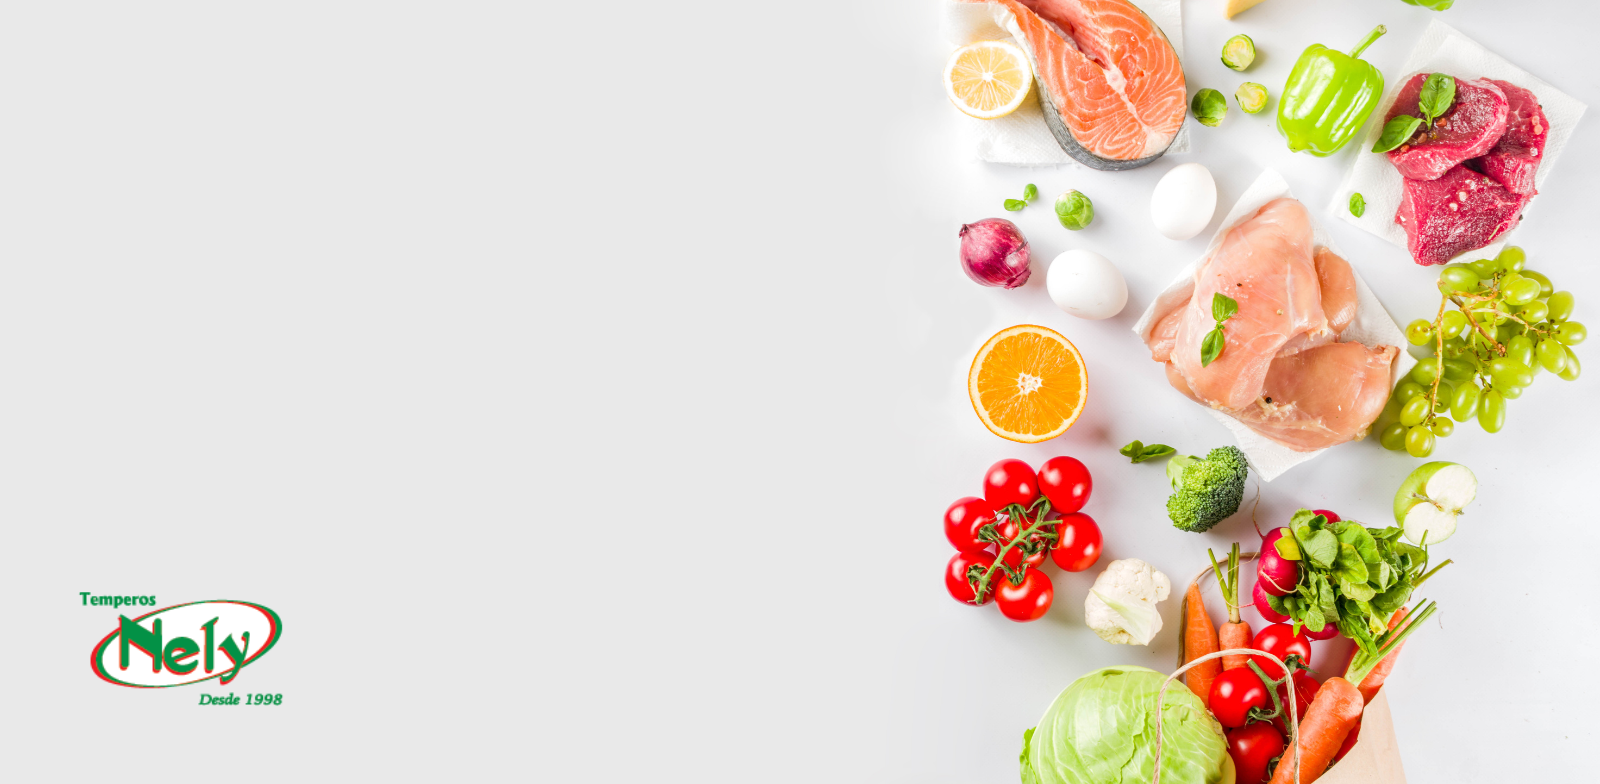
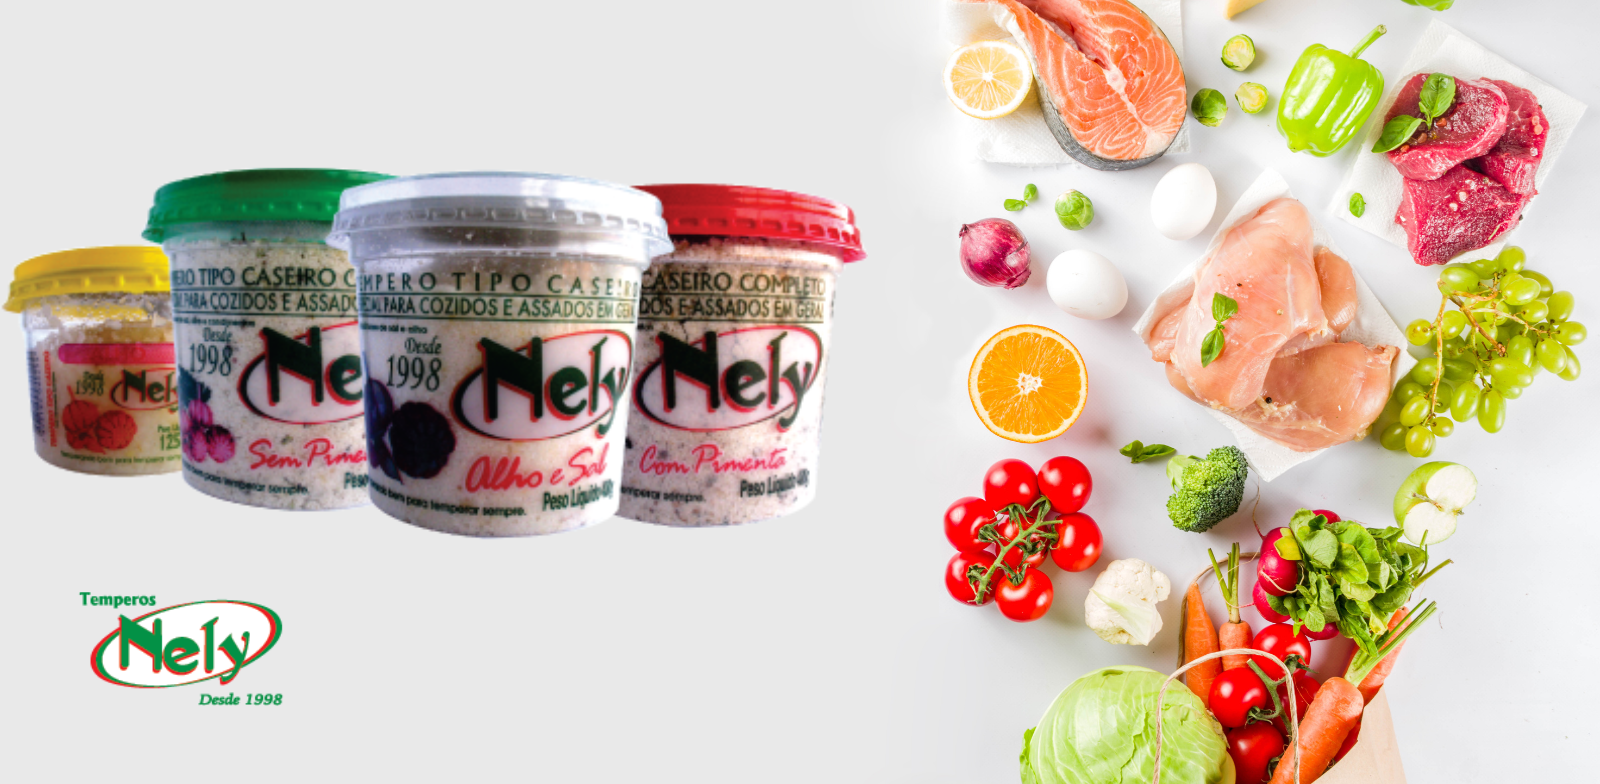
vamos de berco

Changed region(s): [[0.0, 0.2143, 0.5625, 0.7041]]

diff --git a/index.html b/index.html
@@ -20,7 +20,7 @@
 
     </head>
     <link rel="stylesheet" href="https://maxcdn.bootstrapcdn.com/font-awesome/4.5.0/css/font-awesome.min.css">
-    <a href="https://api.whatsapp.com/" style="position:fixed;width:60px;height:60px;bottom:40px;right:40px;background-color:#25d366;color:#FFF;border-radius:50px;text-align:center;font-size:30px;box-shadow: 1px 1px 2px #888;
+    <a href="https://api.whatsapp.com/send?phone=5541998659007&text=Ol%C3%A1%2C%20vi%20seu%20site" style="position:fixed;width:60px;height:60px;bottom:40px;right:40px;background-color:#25d366;color:#FFF;border-radius:50px;text-align:center;font-size:30px;box-shadow: 1px 1px 2px #888;
   z-index:1000;" target="_blank">
     <i style="margin-top:16px" class="fa fa-whatsapp"></i>
 </a>
@@ -41,13 +41,10 @@
                     <div class="col-lg-3 col-12 ms-auto d-lg-block d-none">
                         <ul class="social-icon">
                             <li class="social-icon-item">
-                                <a href="https://www.youtube.com" target="_blank" class="social-icon-link bi-youtube"></a>
+                                <a href="https://www.instagram.com/temperosnely/" target="_blank" class="social-icon-link bi-instagram"></a>
                             </li>
                             <li class="social-icon-item">
-                                <a href="https://www.instagram.com" target="_blank" class="social-icon-link bi-instagram"></a>
-                            </li>
-                            <li class="social-icon-item">
-                                <a href="https://www.instagram.com" target="_blank" class="social-icon-link bi-whatsapp"></a>
+                                <a href="https://web.facebook.com/temperosnelyctba" target="_blank" class="social-icon-link bi-facebook"></a>
                             </li>
                     </div>
 
@@ -119,7 +116,7 @@
                             <div id="hero-slide" class="carousel carousel-fade slide" data-bs-ride="carousel">
                                 <div class="carousel-inner">
                                     <div class="carousel-item active">
-                                        <img src="images/6.png" class="carousel-image img-fluid" alt="...">
+                                        <img src="images/bg5.png" class="carousel-image img-fluid" alt="...">
                                         
                                         <div class="carousel-caption d-flex flex-column justify-content-end">
                                             <!-- <h1>Temperos Nely</h1>
@@ -475,16 +472,16 @@
                         <div class="col-lg-6 col-md-5 col-12 d-flex justify-content-center align-items-center mx-auto">
                             <ul class="social-icon">
                                 <li class="social-icon-item">
-                                    <a href="#" target="_blank" class="social-icon-link bi-whatsapp"></a>
+                                    <a href="https://api.whatsapp.com/send?phone=5541998659007&text=Ol%C3%A1%2C%20vi%20seu%20site" target="_blank" class="social-icon-link bi-whatsapp"></a>
                                 </li>
 
                                 <li class="social-icon-item">
-                                    <a href="#" target="_blank" class="social-icon-link bi-instagram"></a>
+                                    <a href="https://www.instagram.com/temperosnely/" target="_blank" class="social-icon-link bi-instagram"></a>
+                                </li>
+                                <li class="social-icon-item">
+                                    <a href="https://web.facebook.com/temperosnelyctba" target="_blank" class="social-icon-link bi-facebook"></a>
                                 </li>
 
-                                <li class="social-icon-item">
-                                    <a href="#" target="_blank" class="social-icon-link bi-youtube"></a>
-                                </li>
                             </ul>
                         </div>
                         

diff --git a/trad.html b/trad.html
@@ -40,15 +40,13 @@
                     <div class="col-lg-3 col-12 ms-auto d-lg-block d-none">
                         <ul class="social-icon">
                             <li class="social-icon-item">
-                                <a href="https://www.youtube.com" target="_blank" class="social-icon-link bi-youtube"></a>
+                                <a href="https://www.instagram.com/temperosnely/" target="_blank" class="social-icon-link bi-instagram"></a>
                             </li>
                             <li class="social-icon-item">
-                                <a href="https://www.instagram.com" target="_blank" class="social-icon-link bi-instagram"></a>
-                            </li>
-                            <li class="social-icon-item">
-                                <a href="https://www.instagram.com" target="_blank" class="social-icon-link bi-whatsapp"></a>
+                                <a href="https://web.facebook.com/temperosnelyctba" target="_blank" class="social-icon-link bi-facebook"></a>
                             </li>
                     </div>
+
 
                 </div>
             </div>
@@ -243,20 +241,19 @@
                                 <p class="copyright-text mb-0">Copyright © 2022 <a href="#">Temperos Nely.</a> 
                                 Design: <a href="https://costasoftwaresolutions.com" target="_blank">Costa Software Solutions</a></p>
                             </div>
-                            
                             <div class="col-lg-6 col-md-5 col-12 d-flex justify-content-center align-items-center mx-auto">
                                 <ul class="social-icon">
                                     <li class="social-icon-item">
-                                        <a href="#" target="_blank" class="social-icon-link bi-whatsapp"></a>
+                                        <a href="https://api.whatsapp.com/send?phone=5541998659007&text=Ol%C3%A1%2C%20vi%20seu%20site" target="_blank" class="social-icon-link bi-whatsapp"></a>
                                     </li>
     
                                     <li class="social-icon-item">
-                                        <a href="#" target="_blank" class="social-icon-link bi-instagram"></a>
+                                        <a href="https://www.instagram.com/temperosnely/" target="_blank" class="social-icon-link bi-instagram"></a>
+                                    </li>
+                                    <li class="social-icon-item">
+                                        <a href="https://web.facebook.com/temperosnelyctba" target="_blank" class="social-icon-link bi-facebook"></a>
                                     </li>
     
-                                    <li class="social-icon-item">
-                                        <a href="#" target="_blank" class="social-icon-link bi-youtube"></a>
-                                    </li>
                                 </ul>
                             </div>
                             

diff --git a/conserv.html b/conserv.html
@@ -40,15 +40,13 @@
                     <div class="col-lg-3 col-12 ms-auto d-lg-block d-none">
                         <ul class="social-icon">
                             <li class="social-icon-item">
-                                <a href="https://www.youtube.com" target="_blank" class="social-icon-link bi-youtube"></a>
+                                <a href="https://www.instagram.com/temperosnely/" target="_blank" class="social-icon-link bi-instagram"></a>
                             </li>
                             <li class="social-icon-item">
-                                <a href="https://www.instagram.com" target="_blank" class="social-icon-link bi-instagram"></a>
-                            </li>
-                            <li class="social-icon-item">
-                                <a href="https://www.instagram.com" target="_blank" class="social-icon-link bi-whatsapp"></a>
+                                <a href="https://web.facebook.com/temperosnelyctba" target="_blank" class="social-icon-link bi-facebook"></a>
                             </li>
                     </div>
+
 
                 </div>
             </div>
@@ -187,16 +185,16 @@
                             <div class="col-lg-6 col-md-5 col-12 d-flex justify-content-center align-items-center mx-auto">
                                 <ul class="social-icon">
                                     <li class="social-icon-item">
-                                        <a href="#" target="_blank" class="social-icon-link bi-whatsapp"></a>
+                                        <a href="https://api.whatsapp.com/send?phone=5541998659007&text=Ol%C3%A1%2C%20vi%20seu%20site" target="_blank" class="social-icon-link bi-whatsapp"></a>
                                     </li>
     
                                     <li class="social-icon-item">
-                                        <a href="#" target="_blank" class="social-icon-link bi-instagram"></a>
+                                        <a href="https://www.instagram.com/temperosnely/" target="_blank" class="social-icon-link bi-instagram"></a>
+                                    </li>
+                                    <li class="social-icon-item">
+                                        <a href="https://web.facebook.com/temperosnelyctba" target="_blank" class="social-icon-link bi-facebook"></a>
                                     </li>
     
-                                    <li class="social-icon-item">
-                                        <a href="#" target="_blank" class="social-icon-link bi-youtube"></a>
-                                    </li>
                                 </ul>
                             </div>
                             

diff --git a/sal.html b/sal.html
@@ -40,15 +40,13 @@
                     <div class="col-lg-3 col-12 ms-auto d-lg-block d-none">
                         <ul class="social-icon">
                             <li class="social-icon-item">
-                                <a href="https://www.youtube.com" target="_blank" class="social-icon-link bi-youtube"></a>
+                                <a href="https://www.instagram.com/temperosnely/" target="_blank" class="social-icon-link bi-instagram"></a>
                             </li>
                             <li class="social-icon-item">
-                                <a href="https://www.instagram.com" target="_blank" class="social-icon-link bi-instagram"></a>
-                            </li>
-                            <li class="social-icon-item">
-                                <a href="https://www.instagram.com" target="_blank" class="social-icon-link bi-whatsapp"></a>
+                                <a href="https://web.facebook.com/temperosnelyctba" target="_blank" class="social-icon-link bi-facebook"></a>
                             </li>
                     </div>
+
 
                 </div>
             </div>
@@ -299,16 +297,16 @@
                             <div class="col-lg-6 col-md-5 col-12 d-flex justify-content-center align-items-center mx-auto">
                                 <ul class="social-icon">
                                     <li class="social-icon-item">
-                                        <a href="#" target="_blank" class="social-icon-link bi-whatsapp"></a>
+                                        <a href="https://api.whatsapp.com/send?phone=5541998659007&text=Ol%C3%A1%2C%20vi%20seu%20site" target="_blank" class="social-icon-link bi-whatsapp"></a>
                                     </li>
     
                                     <li class="social-icon-item">
-                                        <a href="#" target="_blank" class="social-icon-link bi-instagram"></a>
+                                        <a href="https://www.instagram.com/temperosnely/" target="_blank" class="social-icon-link bi-instagram"></a>
+                                    </li>
+                                    <li class="social-icon-item">
+                                        <a href="https://web.facebook.com/temperosnelyctba" target="_blank" class="social-icon-link bi-facebook"></a>
                                     </li>
     
-                                    <li class="social-icon-item">
-                                        <a href="#" target="_blank" class="social-icon-link bi-youtube"></a>
-                                    </li>
                                 </ul>
                             </div>
                             

diff --git a/produtos.html b/produtos.html
@@ -40,13 +40,10 @@
                     <div class="col-lg-3 col-12 ms-auto d-lg-block d-none">
                         <ul class="social-icon">
                             <li class="social-icon-item">
-                                <a href="https://www.youtube.com" target="_blank" class="social-icon-link bi-youtube"></a>
+                                <a href="https://www.instagram.com/temperosnely/" target="_blank" class="social-icon-link bi-instagram"></a>
                             </li>
                             <li class="social-icon-item">
-                                <a href="https://www.instagram.com" target="_blank" class="social-icon-link bi-instagram"></a>
-                            </li>
-                            <li class="social-icon-item">
-                                <a href="https://www.instagram.com" target="_blank" class="social-icon-link bi-whatsapp"></a>
+                                <a href="https://web.facebook.com/temperosnelyctba" target="_blank" class="social-icon-link bi-facebook"></a>
                             </li>
                     </div>
 
@@ -406,16 +403,16 @@
                             <div class="col-lg-6 col-md-5 col-12 d-flex justify-content-center align-items-center mx-auto">
                                 <ul class="social-icon">
                                     <li class="social-icon-item">
-                                        <a href="#" target="_blank" class="social-icon-link bi-whatsapp"></a>
+                                        <a href="https://api.whatsapp.com/send?phone=5541998659007&text=Ol%C3%A1%2C%20vi%20seu%20site" target="_blank" class="social-icon-link bi-whatsapp"></a>
                                     </li>
     
                                     <li class="social-icon-item">
-                                        <a href="#" target="_blank" class="social-icon-link bi-instagram"></a>
+                                        <a href="https://www.instagram.com/temperosnely/" target="_blank" class="social-icon-link bi-instagram"></a>
+                                    </li>
+                                    <li class="social-icon-item">
+                                        <a href="https://web.facebook.com/temperosnelyctba" target="_blank" class="social-icon-link bi-facebook"></a>
                                     </li>
     
-                                    <li class="social-icon-item">
-                                        <a href="#" target="_blank" class="social-icon-link bi-youtube"></a>
-                                    </li>
                                 </ul>
                             </div>
                             
